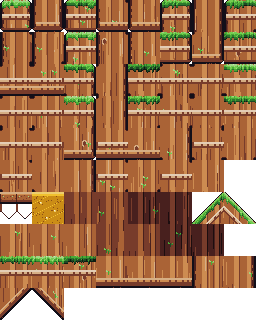
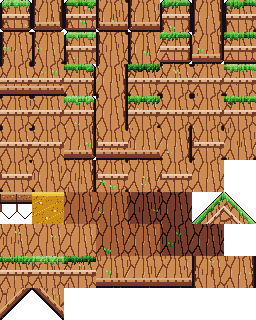
Pass 615: a bough's bark is plates (#696)
The High Boughs' terrain was the Heartwood's two-value strands, which the
pass 610 grade read as flat vertical brown stripes. paint_bough now draws
plates of one body value between furrows that fork and join, on one
wrapped layout so no seam cuts a plate. The trim is notched at a furrow.
Bible 12.92, tests/test_bough_bark.gd.

diff --git a/tools/art/tilegen.py b/tools/art/tilegen.py
@@ -290,6 +290,11 @@ def trim_band(img, ox, oy, seed, x0, x1, zone, y0, tones):
     lit, band, shadow = tones
     kind = TRIM_KIND[zone]
     seams = set(wood_strand_starts()) if kind == "rind" else ()
+    if zone == "boughs":
+        # The High Boughs' bark is plates (12.92): the lip is notched where a
+        # furrow meets it, on the row of bark the trim lies against.
+        row = y0 + 3 * D if y0 < T // 2 else y0 - 1
+        seams = {x for x in range(T) if bough_plate(x, row) != bough_plate((x - 1) % T, row)}
     for x in range(x0, x1):
         wx = x // D
         for row, col in enumerate((lit, band, shadow)):
@@ -816,14 +821,71 @@ def paint_limb(img, ox, oy, seed, ramp):
                         img.putpixel((ox + cx + dx, oy + cy + dy), c("leaf-1" if dy > 0 else "leaf-2"))
 
 
-def paint_bough(img, ox, oy, seed, ramp):
-    """A sunlit bough high in the canopy: The Heartwood's strands two shades
-    lighter, and the odd sprig of young leaves.
+# The High Boughs' bark (design bible 12.92, pass 615). The boughs shared the
+# Heartwood's strands two shades up: columns of two values from the top of a
+# wall to its foot, which the independent grade read as "flat vertical brown
+# stripes" (pass 610). A bough's bark is now plates of one body value, cut by
+# dark furrows that fork and join, and no furrow runs straight for longer than a
+# plate. A plate is the ground nearest one of BOUGH_PLATES' points (a step across
+# counts BOUGH_STRETCH times a step down, so a plate is tall). The points are
+# uneven on purpose: evenly spread they made a honeycomb. The layout is the same
+# in every tile and wraps at its edges, so a plate runs on across every seam;
+# the seed varies only the marks laid on the plates (a check, a lit edge, a
+# sprig), which cannot show at a seam.
+BOUGH_PLATES = ((11, 18), (2, 18), (5, 0), (23, 15), (31, 9), (19, 19))
+BOUGH_STRETCH = 2.5   # a step across a plate counts as this many steps down it
+BOUGH_CHECK = 0.75    # a plate carries a check above this
+BOUGH_LIT = 0.55      # a plate's west edge is lit above this
 
-    It shares paint_wood's calm strands (design bible 12.28 and 12.45). The older
-    face drew a sine grain down every column and a dark line every 6 world
-    pixels, and read as "striped dirt" (independent grade, pass 550)."""
-    paint_wood(img, ox, oy, seed, ramp, lo=3)
+
+def bough_plate(x, y):
+    """The plate of BOUGH_PLATES a tile's pixel lies on (the layout wraps)."""
+    best, at = None, 0
+    for i, (px, py) in enumerate(BOUGH_PLATES):
+        dx = min((x - px) % T, (px - x) % T) * BOUGH_STRETCH
+        dy = min((y - py) % T, (py - y) % T)
+        d = dx * dx + dy * dy
+        if best is None or d < best:
+            best, at = d, i
+    return at
+
+
+def bough_furrow(x, y):
+    """True where a furrow runs: the pixel east, south or south-east is another
+    plate's. The diagonal keeps a slanted furrow one joined line: without it a
+    furrow that steps a pixel a row is a string of pixels touching at corners."""
+    here = bough_plate(x, y)
+    return any(bough_plate((x + dx) % T, (y + dy) % T) != here for dx, dy in ((1, 0), (0, 1), (1, 1)))
+
+
+def paint_bough(img, ox, oy, seed, ramp, lo=3):
+    """A sunlit bough high in the canopy: plates of bark two shades lighter
+    than the Heartwood's wood, and the odd sprig of young leaves.
+
+    Calm fill (design bible 12.28 and 12.45): a plate is one flat value, the
+    furrows are one pixel wide and every mark on a plate is a line. The first
+    face drew a sine grain down every column ("striped dirt", pass 550); the
+    second shared paint_wood's strands ("vertical brown stripes", pass 610)."""
+    for y in range(T):
+        for x in range(T):
+            col = lo - 1 if bough_furrow(x, y) else lo + 1
+            img.putpixel((ox + x, oy + y), c(f"{ramp}-{col}"))
+    for i, (px, py) in enumerate(BOUGH_PLATES):
+        # A check: a short crack down the middle of a plate.
+        if hash2(seed, i, 24) > BOUGH_CHECK:
+            cx = px + int(hash2(seed, i, 25) * 5) - 2
+            y0 = py - 5 + int(hash2(seed, i, 26) * 4)
+            for y in range(y0, y0 + 4 + int(hash2(seed, i, 27) * 5)):
+                if bough_plate(cx % T, y % T) == i and not bough_furrow(cx % T, y % T):
+                    img.putpixel((ox + cx % T, oy + y % T), c(f"{ramp}-{lo - 1}"))
+        # A lit edge: the plate's west side catches the sun for a few pixels.
+        if hash2(seed, i, 28) > BOUGH_LIT:
+            y0 = py - 4 + int(hash2(seed, i, 29) * 4)
+            for y in range(y0, y0 + 4 + int(hash2(seed, i, 30) * 4)):
+                for x in range(px - T // 2, px):
+                    if bough_plate(x % T, y % T) == i and not bough_furrow(x % T, y % T):
+                        img.putpixel((ox + x % T, oy + y % T), c(f"{ramp}-{lo + 2}"))
+                        break
     for k in range(2):
         if hash2(seed, k, 21) > 0.6:
             # A sprig: a short stem and two bright leaves.

diff --git a/tools/art/test_tilegen.py b/tools/art/test_tilegen.py
@@ -223,6 +223,85 @@ def test_paint_wood_has_surface_value_variation():
     assert max(seen.values()) / total < 0.80, "no single wood shade swamps the face"
 
 
+def _bough(seed):
+    img = tg.Image.new("RGBA", (tg.T, tg.T), tg.CLEAR)
+    tg.paint_bough(img, 0, 0, seed, "bark")
+    return img
+
+
+def _longest_run(cells, step):
+    """The longest straight run in a wrapping tile's set of cells, along `step`."""
+    T, best = tg.T, 0
+    for x, y in cells:
+        if ((x - step[0]) % T, (y - step[1]) % T) in cells:
+            continue
+        n = 1
+        while n < T and ((x + step[0] * n) % T, (y + step[1] * n) % T) in cells:
+            n += 1
+        best = max(best, n)
+    return best or (T if cells else 0)
+
+
+def test_bough_bark_is_plates_not_stripes():
+    # The pass 610 grade read the High Boughs' terrain as "flat vertical brown
+    # stripes": paint_wood's strands, a column of one value from the top of a wall
+    # to its foot. A bough is now plates of one body value between furrows that
+    # fork (bible 12.92). (Painting the boughs with paint_wood again fails the
+    # body share: the strands were two values, about half a tile each.)
+    T = tg.T
+    furrow = {(x, y) for x in range(T) for y in range(T) if tg.bough_furrow(x, y)}
+    share = len(furrow) / (T * T)
+    assert 0.10 < share < 0.22, f"furrows are lines, not a field: {share:.3f} of the tile"
+    assert _longest_run(furrow, (0, 1)) <= 2 * T // 3, "no furrow runs straight down for more than two thirds of a tile"
+    assert _longest_run(furrow, (1, 0)) <= T // 4, "no furrow runs straight across for more than a quarter"
+    sizes = [sum(tg.bough_plate(x, y) == i for x in range(T) for y in range(T)) for i in range(len(tg.BOUGH_PLATES))]
+    assert min(sizes) >= 60, f"no plate is a sliver: {sizes}"
+    assert max(sizes) >= 1.5 * min(sizes), f"the plates are uneven (even ones made a honeycomb): {sizes}"
+    body = tg.c("bark-4")
+    for seed in (11, 58, 201, 202, 203):
+        img = _bough(seed)
+        n = sum(img.getpixel((x, y)) == body for x in range(T) for y in range(T))
+        assert n / (T * T) > 0.7, f"seed {seed}: one body value fills the plates, got {n / (T * T):.2f}"
+        dark = {(x, y) for x in range(T) for y in range(T) if img.getpixel((x, y)) == tg.c("bark-2")}
+        assert len(furrow - dark) <= 12, f"seed {seed}: every furrow is drawn (a sprig may cover a few pixels)"
+        assert _longest_run(dark, (0, 1)) <= 2 * T // 3, f"seed {seed}: a check does not turn a furrow into a stripe"
+
+
+def test_bough_plates_run_on_across_every_seam():
+    # The layout is the same in every tile and wraps, so no seam cuts a plate:
+    # across a seam the two pixels are one plate's unless a furrow runs there,
+    # exactly as inside the tile. The seed changes no pixel in the two rows and
+    # columns at a tile's edge except a mark that stays on its own plate.
+    T = tg.T
+    for k in range(T):
+        assert tg.bough_plate(T, k) == tg.bough_plate(0, k) and tg.bough_plate(k, T) == tg.bough_plate(k, 0), "the layout wraps"
+    a, b = _bough(201), _bough(203)
+    for k in range(T):
+        for x, y in ((0, k), (T - 1, k), (k, 0), (k, T - 1)):
+            if tg.bough_furrow(x, y):
+                assert a.getpixel((x, y)) == b.getpixel((x, y)), f"a furrow at the seam is the same in every tile ({x},{y})"
+    assert a.tobytes() != b.tobytes(), "the seed still varies the marks"
+
+
+def test_bough_trim_is_notched_at_a_furrow():
+    # The rind under a bough's cap was notched where two of paint_wood's strands
+    # met. It is notched where a furrow of the bark below meets it.
+    T, D = tg.T, tg.D
+    img = tg.Image.new("RGBA", (T, T), tg.CLEAR)
+    tg.paint_tile(img, 0, 0, tg.EDGE_TOP, "boughs", 61)
+    y = tg.COURSE_TOP * D + D   # the band, between the lit line and the shadow line
+    row = tg.COURSE_TOP * D + 3 * D
+    notched = {x for x in range(T) if img.getpixel((x, y)) == tg.c(tg.TRIM_TONES["boughs"][0][2])}
+    meets = {x for x in range(T) if tg.bough_plate(x, row) != tg.bough_plate((x - 1) % T, row)}
+    assert notched and meets <= notched, f"a notch at every furrow: {sorted(meets)} in {sorted(notched)}"
+    assert len(notched) <= 3 * len(meets), "and nowhere else"
+
+
+def test_shipped_boughs_atlas_is_fresh():
+    shipped = tg.Image.open(tg.TILES / "boughs.png").convert("RGBA")
+    assert shipped.tobytes() == _build_atlas("boughs").tobytes(), "assets/tiles/boughs.png is stale"
+
+
 def _build_atlas(zone="gym"):
     """Builds `zone`'s atlas into a temp dir and returns the PIL image."""
     import tempfile

diff --git a/docs/loop/pass-615.md b/docs/loop/pass-615.md
@@ -1,0 +1,94 @@
+# Pass 615: a bough's bark is plates
+
+## Category
+
+Art cohesion, from the independent grade taken after pass 610 (5.6 of 10): "the canopy
+zone's terrain is flat vertical brown stripes with stair-stepped edges" (the canopy bridge).
+It was the top of the queue after passes 611 to 614 took the items before it.
+
+No note from Sean was new. The PixelLab art loop stays **gated** on Sean: three guardian bases
+(Haar Wyrm, Thane Vorrund, Drowned Warden) wait for his OK, the limit of three. No PixelLab
+generations were spent, and no Autosprite credits. README's playtest link already points at
+sagedragoon79/Yldenfall.
+
+## Audit
+
+The High Boughs' tiles were `paint_wood`, the Heartwood's strands, two shades up: columns 4
+to 9 pixels wide that alternate two values, laid out the same in every tile so a strand runs
+on from one tile to the one below. Pass 555 made them to replace a sine grain the grade
+called "striped dirt". They are calm, and they are stripes: in the canopy bridge every wall
+is ruled from its top to its foot, and the darker tiers ruled the same way a shade down.
+
+The stripes came from two things together: the two values alternate by column, and no line
+ever ends. A bark that keeps one value and whose lines stop is not striped.
+
+## What was built
+
+- **Plates** (`tilegen.paint_bough`, `bough_plate`, `bough_furrow`): one body value (`bark-4`)
+  between furrows one pixel wide and two shades down. A plate is the ground nearest one of six
+  points, with a step across counted 2.5 times a step down, so a plate is tall. The furrows
+  slant, fork and join; none runs straight down for more than 17 of a tile's 32 pixels.
+- **One layout, wrapped**: the same in every tile, so a plate runs across every seam whichever
+  variant is next to it. The seed varies only marks that stay on one plate (a check, a lit
+  west edge, a sprig).
+- **The trim follows**: the rind under a cap and the soffit under a ceiling are notched where
+  a furrow meets them, not where a strand of the old layout was.
+- **The Heartwood and the Haar are unchanged**: `paint_wood` and `paint_limb` keep the strands.
+  Only `assets/tiles/boughs.png` changed.
+- Bible 12.92 (new).
+
+Three layouts were looked at in the game before one was kept. Six or seven evenly spread
+points made a honeycomb (regular hexagons, loud at 1x). A stretch of 3.5 or more made the
+furrows vertical lines again. The kept one has uneven points and a stretch of 2.5: plates of
+129 to 218 pixels that read as furrowed bark at 1x and 2x in the canopy bridge and Sylvarre.
+
+Not done: the darker tiers still step by the tile (its own queue item). The grade's other
+half, "its smooth painterly leaf backdrop clashes with the rest", is the parked pixel-grain
+call. For Sean to judge in play: whether the plates are too busy next to the leaf backdrop;
+`BOUGH_PLATES` with five points would make them larger.
+
+## Tests
+
+`tools/art/test_tilegen.py` (run by hand; CI runs no Python tests), four new: the furrows are
+lines (10 to 22 percent of the tile, none straight for two thirds of a tile down or a quarter
+across), no plate is a sliver and the plates are uneven, one body value fills over 70 percent
+of every tile; the layout wraps and no seed moves a furrow at a tile's edge; the trim is
+notched at every furrow and nowhere else; the shipped atlas is what the generator makes.
+
+`tests/test_bough_bark.gd` (new, four tests): one body value in the shipped field tiles (and
+the Heartwood is still two); the longest straight furrow is under two thirds of a tile (a
+strand's seam runs the whole tile); the variants share the layout, differ in their marks and
+never move a furrow at a seam, and the darker tiers are plates too; the canopy bridge is built
+of the field; 12.92 names the test. `test_the_boughs_bark_is_calm` (was
+`..._wood_is_long_strands`) keeps the 23 percent measure and now asks that pixels do change
+going down a column.
+
+Mutation check: with `paint_bough` painting `paint_wood` again, the Python body-share, seam and
+shipped-atlas tests fail, and the Godot body-value and straight-furrow tests fail; with the
+trim's notches back at the strand starts, the notch test fails; with both back all pass.
+
+Full suite: see the pull request.
+
+## Rubric (design bible 15.3)
+
+| Category | Weight | Score | Notes |
+| --- | --- | --- | --- |
+| Movement feel | 20 | 99 | Unchanged. |
+| Combat and enemies | 15 | 99 | Unchanged. |
+| World and level design | 15 | 99 | Unchanged. |
+| Art cohesion | 15 | 98 | The Boughs' terrain is bark plates; the tiers' tile steps remain. |
+| Bosses | 10 | 99 | Unchanged. |
+| Systems | 10 | 99 | Unchanged. |
+| Audio | 5 | 99 | Unchanged. |
+| Stability and performance | 5 | 99 | Unchanged. |
+| Story and world | 5 | 99 | Unchanged. |
+
+Weighted: 98.85.
+
+## Next
+
+An independent grade is due now (every fifth pass). Then the pass 610 grade's remaining
+unheld items, in order: the shop panel's dead area and no comparison with equipped gear, and
+the plaza skyline's gridded windows; then the tiers that step by the tile (seen in pass 614).
+The Haar's fog and dither, the sprites' pixel size, the hero's rim light and the sword's look
+stay held.

diff --git a/docs/design-bible.md b/docs/design-bible.md
@@ -2724,6 +2724,19 @@ The rest of the pass 610 grade's item: "terrain tiles repeat visibly: uniform br
 
 Judged by eye at 1x and 3x in the three rooms. `tools/art/test_tilegen.py` holds the coursing, the tones, the seams and that the shipped rows are what the generator makes; `tests/test_stone_patches.gd` holds the noise, the tiles and the three rooms in the game.
 
+### 12.92 A bough's bark is plates (pass 615)
+
+The pass 610 grade: "the canopy zone's terrain is flat vertical brown stripes with stair-stepped edges" (the canopy bridge). The High Boughs' tiles were the Heartwood's strands two shades up (12.28, 12.45): columns of two values, the same in every tile, so a wall was striped from its top to its foot. Pass 555 had made those strands to replace a sine grain the grade called "striped dirt"; calm as they were, they were still stripes.
+
+- **Plates, not strands.** `tilegen.paint_bough` draws a bough's bark as plates of **one body value** (`bark-4`) between furrows one pixel wide and two shades down (`bark-2`). A furrow slants, forks and joins another; none runs straight down for more than two thirds of a tile. The Heartwood keeps its strands: the trunk's wood and a bough's bark are now two materials, where they were one in two shades.
+- **How a plate is cut.** A plate is the ground nearest one of six points (`BOUGH_PLATES`), with a step across counted `BOUGH_STRETCH` (2.5) times a step down, so a plate is taller than it is wide. The points are **uneven on purpose**. Spread evenly they made a honeycomb, and stretched further (3.5 and up) the furrows were stripes again; both were tried in the canopy bridge and dropped.
+- **No seam.** The layout is the same in every tile and wraps at its edges, so a plate runs on across every seam whichever variant lies next to it. The seed varies only marks that stay on one plate: a check (a short crack), a lit west edge, a sprig of young leaves.
+- **The trim follows.** The rind under a bough's cap and the soffit under its ceilings were notched where two strands met; they are notched where a furrow meets them.
+- **Calm still.** The fill stays under 12.28's measure (under 23 percent of neighbouring pixels differ, almost none stands alone).
+- **Not done here.** The darker tiers still step by the tile, in the Boughs as elsewhere. The Haar's limbs and the Heartwood keep `paint_wood`. The grade's other half, the smooth leaf backdrop behind crisp tiles, is the parked pixel-grain call.
+
+Judged by eye at 1x and 2x in the canopy bridge and Sylvarre. `tools/art/test_tilegen.py` holds the plates, the seams, the trim's notches and that the shipped atlas is what the generator makes; `tests/test_bough_bark.gd` holds the shipped tiles and the canopy bridge in the game.
+
 ## 13. Asset Production Plan
 
 ### 13.1 Tools and when to use each
